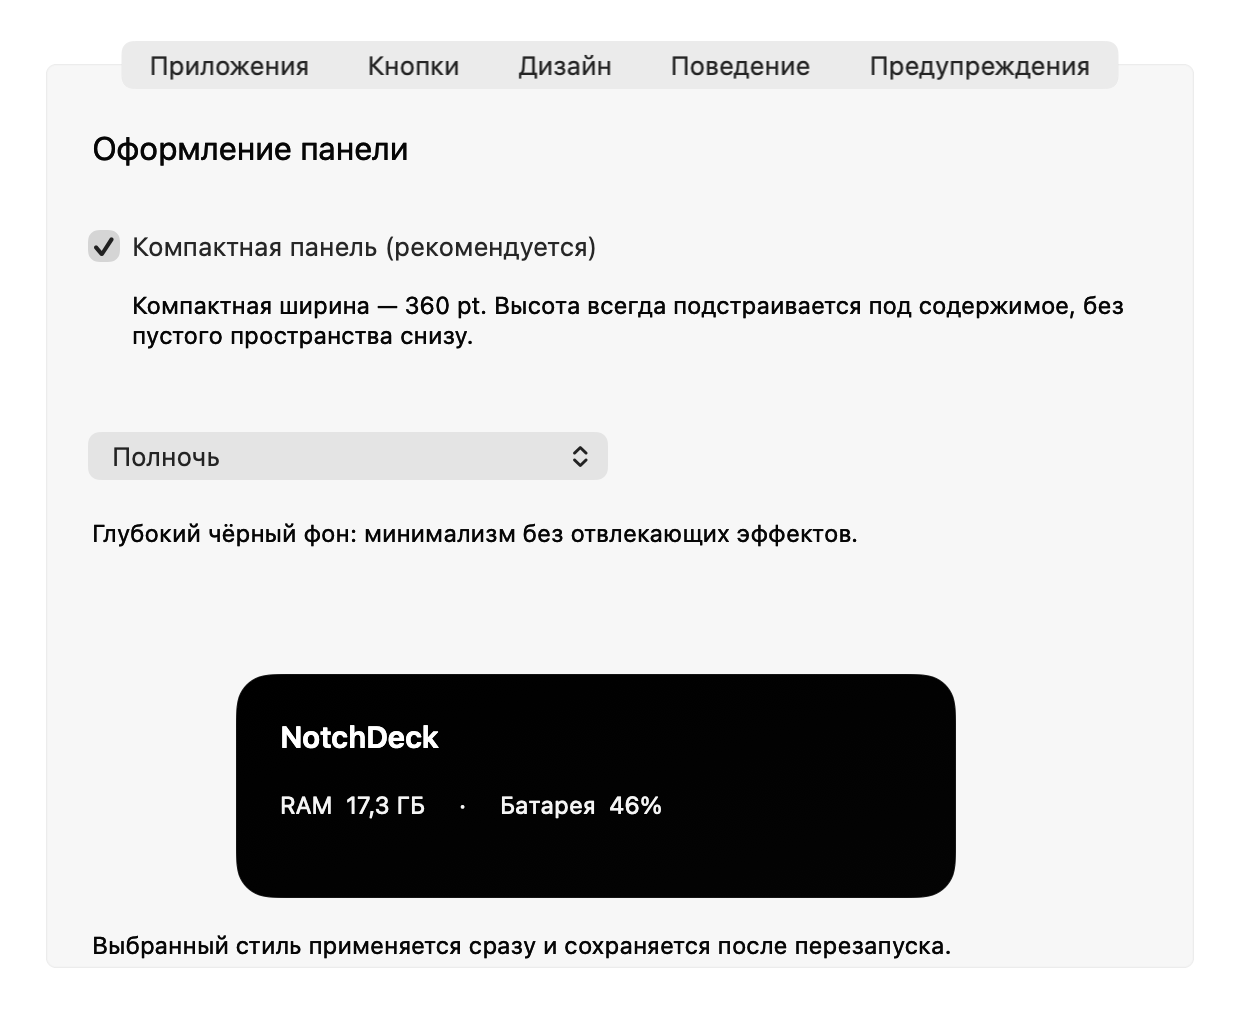
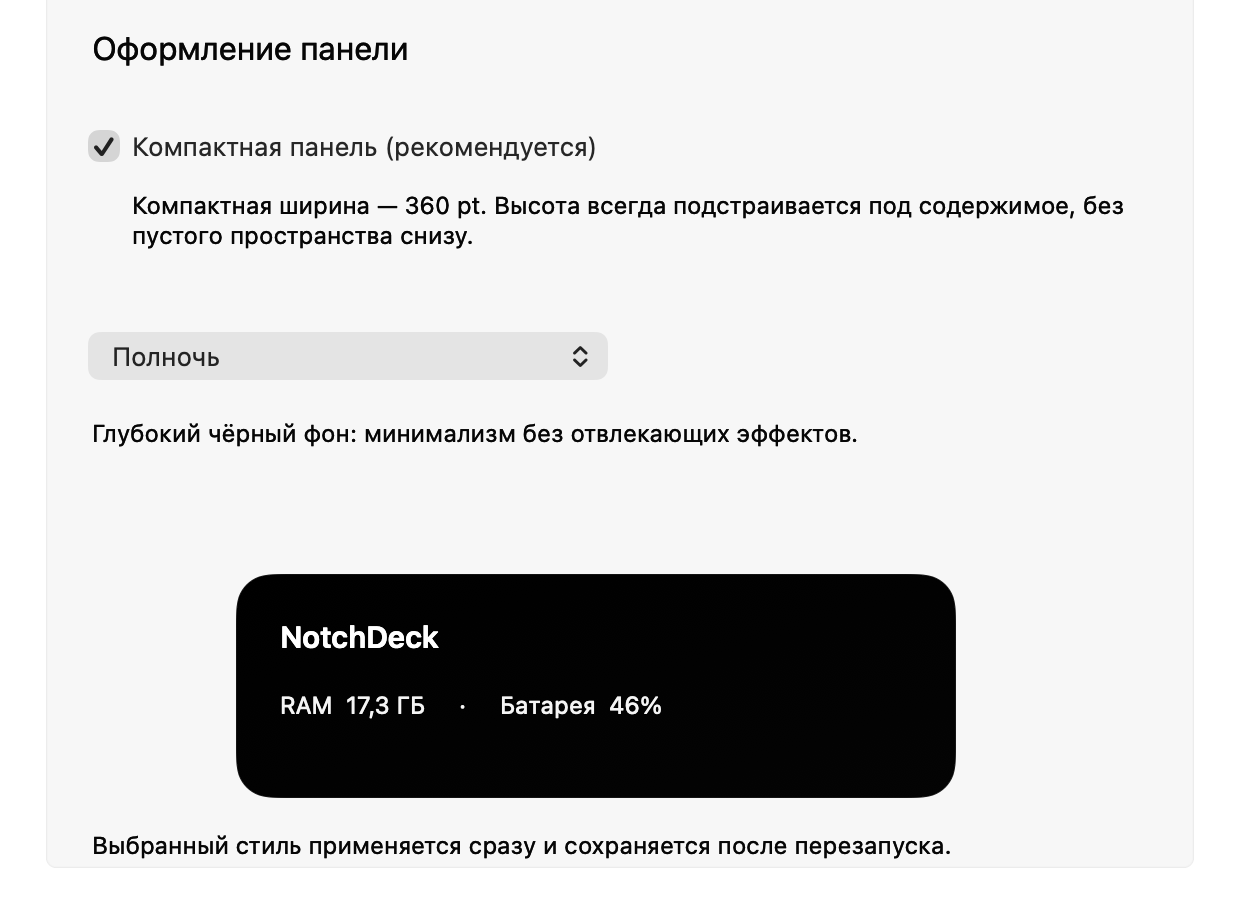
Use only isolated demo data in release settings image

diff --git a/README.md b/README.md
@@ -80,7 +80,7 @@
 | ![Предупреждение](docs/screenshots/04-alert-memory.png) | ![Зарядка](docs/screenshots/05-charge-pulse.png) |
 
 <details>
-<summary>Настройки → Дизайн — окно целиком</summary>
+<summary>Настройки → Дизайн — содержимое вкладки</summary>
 
 ![Настройки оформления](docs/screenshots/06-settings-design.png)
 
